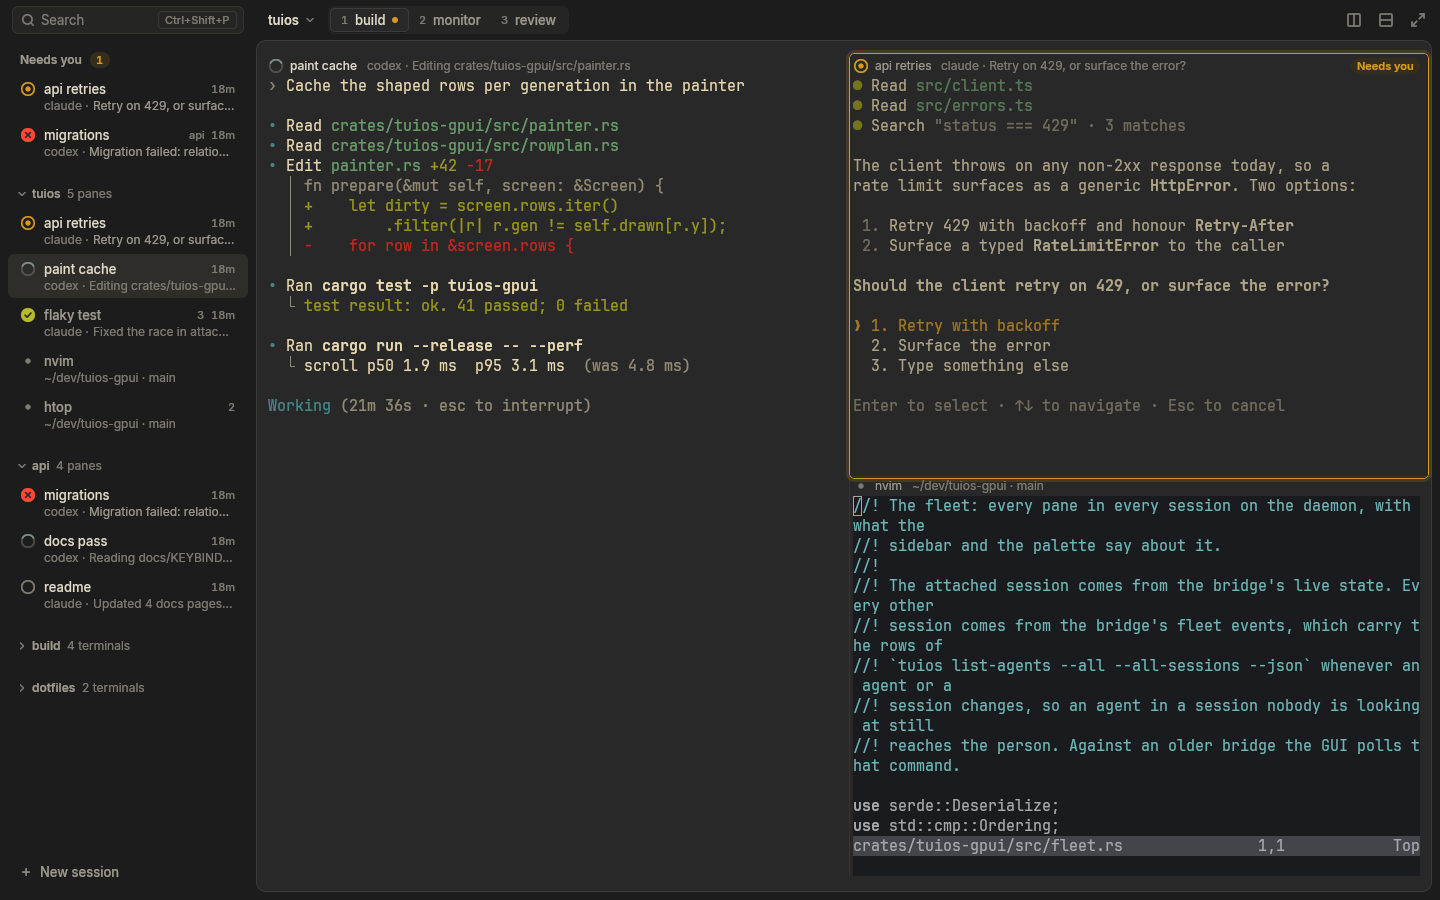
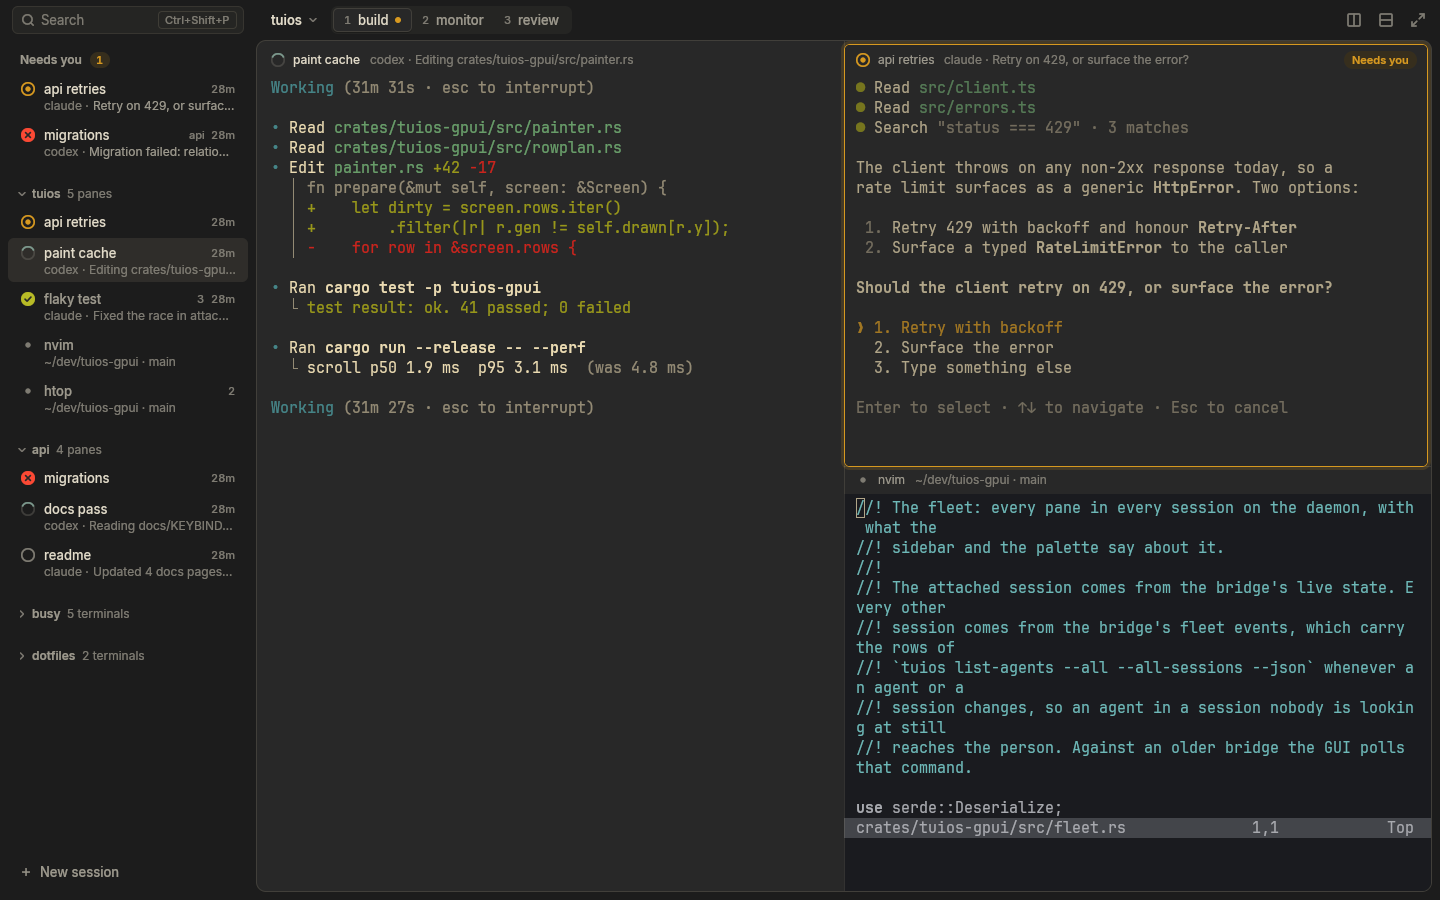
docs: the padded layout, the new tokens, and new screenshots
FINAL.md describes the slots, the 28 px header, the padding colour, the
light tokens and the window buttons, and section 11 records the bridge
insets as done. PERFORMANCE.md has the numbers after the change.

diff --git a/docs/design/FINAL.md b/docs/design/FINAL.md
@@ -40,7 +40,7 @@ one bordered quad per frame.
 8. The speed and memory budget, and 3,000 lines of default scrollback.
 9. Empty states for "connecting" (after 400 ms) and "session ended".
 10. The narrow-window rules, with the rail hidden below 720 px.
-11. Unfocused panes dim 20 % on light themes, 30 % on dark.
+11. Unfocused panes dim 12 % on light themes, 30 % on dark.
 12. The overlay scrollbar.
 
 ## 1. Principles
@@ -115,17 +115,17 @@ Everything else is derived, once per theme change, never per frame.
 | Token | Dark theme | Light theme |
 | --- | --- | --- |
 | `stage` (panes, pane headers) | `bg` | `bg` |
-| `base` (sidebar, title band) | mix(bg, #000, 0.30) | mix(bg, #fff, 0.55) |
-| `field` (search, segmented control) | mix(base, fg, 0.045) | mix(base, #000, 0.035) |
+| `base` (sidebar, title band) | mix(bg, #000, 0.30) | mix(bg, #000, 0.04) |
+| `field` (search, segmented control) | mix(base, fg, 0.045) | mix(base, #fff, 0.5) |
 | `hover` | mix(base, fg, 0.04) | mix(base, #000, 0.03) |
-| `selected` | mix(base, fg, 0.09) | mix(base, #000, 0.08) |
-| `raised` (palette) | mix(bg, fg, 0.045) | mix(bg, #fff, 0.75) |
+| `selected` | mix(base, fg, 0.09) | mix(base, #000, 0.07) |
+| `raised` (palette) | mix(bg, fg, 0.045) | mix(bg, #fff, 0.85) |
 | `raised_sel` (chosen palette row) | mix(raised, fg, 0.075) | mix(raised, #000, 0.06) |
-| `border` (stage edge, chips, buttons) | fg at 10 % | #000 at 12 % |
-| `hairline` (splits, palette dividers) | fg at 7 % | #000 at 9 % |
+| `border` (stage edge, chips, buttons) | fg at 13 % | #000 at 16 % |
+| `hairline` (splits, palette dividers) | fg at 12 % | #000 at 14 % |
 | `scrim` | #000 at 45 % | #000 at 18 % |
-| `dim` (unfocused pane content) | `stage` at 30 % | `stage` at 20 % |
-| `ink` | desaturate(fg, 0.45) | desaturate(fg, 0.12), then mix toward #000 in 2 % steps until 11:1 on `worst` |
+| `dim` (unfocused pane content) | `stage` at 30 % | `stage` at 12 % |
+| `ink` | desaturate(fg, 0.45) | desaturate(fg, 0.12), then mix toward #000 in 2 % steps until 10.5:1 on `worst` |
 | `text` | `ink` | `ink` |
 | `text2` | mix(ink, worst, t), largest t that keeps 4.6:1 on `worst` | same |
 | `text3` | the same, for 3.1:1 | same |
@@ -138,9 +138,14 @@ Everything else is derived, once per theme change, never per frame.
 - `worst` is whichever of `base`, `stage`, `hover`, `selected`, `field` and
   `raised` gives `ink` the lowest contrast. Text passes on all of them.
 - `raised_sel` is left out of `worst`. On the chosen palette row the muted
-  fragment uses `text2`, not `text3` (3.9:1 dark, 5.1:1 light).
+  fragment uses `text2`, not `text3`.
 - Light themes start the state colours from the dark agent hues, so amber
-  stays amber (`#aa7304`), never brown.
+  stays amber (`#976602`), never brown.
+- In both themes the stage is the brightest surface the panes sit on. In a
+  light theme the shell is a step darker than the stage, and the search
+  field and the palette are lighter than both.
+- The light ink stops at 10.5:1, not 11: with the shell darker than the
+  stage, 2 % steps toward black stall just under 11 on `selected`.
 
 ### 3.3 Resolved values
 
@@ -150,23 +155,23 @@ Alpha tokens are shown composited on `stage`.
 | Token | Dark | Light | Contrast on `worst` (dark / light) |
 | --- | --- | --- | --- |
 | `stage` | #1a1b26 | #e1e2e7 | |
-| `base` | #12131b | #f2f2f4 | |
-| `field` | #1a1b25 | #eaeaeb | |
-| `hover` | #191a24 | #ebebed | |
-| `selected` | #22232f | #dfdfe0 | |
-| `raised` | #21232f | #f8f8f9 | |
-| `raised_sel` | #2d303e | #e9e9ea | |
-| `border` | #2b2c3b | #c6c7cb | |
-| `border` on `raised` | #313443 | #dadadb | |
-| `hairline` | #262734 | #cdced2 | |
-| `text` | #c6cbde | #26282e | 9.6 / 11.1 |
-| `text2` | #888b9b | #606166 | 4.6 / 4.6 (5.5 / 5.5 on `base`) |
-| `text3` | #6c6f7e | #7b7c80 | 3.1 / 3.1 |
-| `accent` | #7aa2f7 | #2e7de9 | 6.2 / 3.0 |
-| `need` / fill / ink | #e0af68 / #2f2926 / #e0af68 | #aa7304 / #e8e0d2 / #885b06 | 7.8 / 3.1, ink 4.5 on fill |
-| `done` / fill | #9ece6a / #262d26 | #5f8b24 / #dde4d7 | 8.5 / 3.0 |
-| `err` / fill | #f7768e / #32212b | #d0536d / #eddce1 | 5.9 / 3.1 |
-| `selection` | #354161 | #bacce7 | |
+| `base` | #12131b | #d8d9de | |
+| `field` | #1a1b25 | #ececee | |
+| `hover` | #191a24 | #d2d2d7 | |
+| `selected` | #22232f | #c9cace | |
+| `raised` | #21232f | #fafbfb | |
+| `raised_sel` | #2d303e | #ebecec | |
+| `border` | #303241 | #bdbec2 | |
+| `border` on `raised` | #363949 | #d2d3d3 | |
+| `hairline` | #2e303f | #c2c2c7 | |
+| `text` | #c6cbde | #191b21 | 9.6 / 10.5 |
+| `text2` | #888b9b | #53545a | 4.6 / 4.6 |
+| `text3` | #6c6f7e | #6d6e74 | 3.1 / 3.1 |
+| `accent` | #7aa2f7 | #1a6cd6 | 6.2 / 3.1 |
+| `need` / fill / ink | #e0af68 / #2f2926 / #e0af68 | #976602 / #cfc9bf / #744d01 | 7.8 / 3.0, ink 4.5 on fill |
+| `done` / fill | #9ece6a / #262d26 | #517c0c / #c5ccc1 | 8.5 / 3.0 |
+| `err` / fill | #f7768e / #32212b | #bf435f / #d4c4cc | 5.9 / 3.1 |
+| `selection` | #354161 | #b5c8e3 | |
 | `on_state` | #1a1b26 | #ffffff | |
 
 ### 3.4 Where colour goes
@@ -208,8 +213,8 @@ Alpha tokens are shown composited on `stage`.
   | Sidebar row | 44 tall, 2 px gap (46 pitch), inset 8 |
   | Group header | 28 tall. Section label 24 tall |
   | Stage margin | 8 right and bottom, 0 left and top |
-  | Stage inner padding | at least 12 on every side |
-  | Pane header | one cell row (20 px). 28 px once the bridge has insets (section 11) |
+  | Pane padding | 12 from each slot edge to the text, 32 at the top (section 11) |
+  | Pane header | 28 tall (section 11) |
   | Split hit area | 8 |
   | Palette | 680 wide, query row 52, row 40, section label 28, footer 40 |
   | Keycap chip | 18 tall, 6 px side padding |
@@ -242,14 +247,22 @@ Reference: 1440 x 900 at scale 1, cell 9 x 20.
 - **Stage:** x = sidebar width, y = 40, right margin 8, bottom margin 8,
   radius 10, fill `stage`, 1 px `border` drawn inside. The sidebar and the
   band have no edge lines. The stage edge separates them.
-- **Grid:** `cols = floor((stage_w - 24) / cell_w)`,
-  `rows = floor((stage_h - 24) / cell_h)`. The origin is the stage origin
-  plus `floor(leftover / 2)` on each axis. At the reference size: 128 x 41
-  cells at (268, 56).
+- **Grid:** tuios lays the panes out in cells with a one-cell gap. A pane's
+  **slot** is its cells plus the gap after them: half a gap column on each
+  side and the gap row above. `cols = floor(stage_w / cell_w) - 1` and
+  `rows = floor(stage_h / cell_h) - 1`, so the slots fill the stage, and the
+  leftover is split evenly around them.
 - All padding and leftover is `stage`. A pane whose program set its own
-  background (OSC 11) fills its content rect grown by 4 px into the gaps, and
-  out to the stage edge where it touches it, clipped by the stage radius. Its
-  header row stays `stage`.
+  background (OSC 11) fills its slot below the header, out to the stage
+  edge where it touches it, clipped by the stage radius. Its header stays
+  `stage`.
+- **Padding takes the edge colour,** as Ghostty's
+  `window-padding-color = extend`: each row's first and last cell run their
+  background out to the slot's sides, and the first and last rows run theirs
+  up and down. A side runs on only when at least half the rows have a
+  background on it, so a coloured shell prompt leaves the padding alone. A
+  box-drawing or Powerline cell never runs on. The `dim` quad covers the
+  padding too.
 - The stage, grid origin, hairlines and ring snap to device pixels at every
   scale.
 
@@ -270,9 +283,14 @@ Reference: 1440 x 900 at scale 1, cell 9 x 20.
     0 1 0 shadow at 25 %. An unnamed workspace shows its number only, at
     least 28 wide. A workspace with a pane that needs you shows a 6 px `need`
     dot 6 px after its name.
+  - A session with one unnamed workspace shows no segmented control.
   - Right: split right, split down, zoom. 28 x 28 icon buttons, 16 px
     outline icons with 1.5 px strokes in `text3`, 4 px apart, the last one
     ending at the stage's right edge.
+  - When the app draws its own decorations and the window floats (GNOME,
+    for example), minimize, maximize and close follow, 8 px after zoom:
+    the same icon buttons. Close fills `err` under the pointer, its icon
+    `on_state`. A tiled window, or one the compositor frames, shows none.
 - All band baselines sit at y 25.
 
 ### 5.3 Sidebar (256 px, `base`)
@@ -308,40 +326,41 @@ From the top, after the band:
   folder. The harness goes on line 2, never in the title.
 - Fill: `selected` for the focused pane, `hover` under the pointer.
 - A pane that needs you appears in "Needs you" and in its session, on
-  purpose. Both rows look the same.
+  purpose. In its session it is a 28 px row: the icon and the title, no
+  second line, since "Needs you" shows the message.
 - Drag the stage edge to resize, 220 to 360. A double click on it resets
   256. `Ctrl+Shift+B` hides the sidebar.
 
 ### 5.4 Panes, headers and splits
 
-- **Header** (the cell row tuios reserves above each pane, 20 px):
+- **Header** (the top 28 px of the pane's slot):
   - No fill and no line. It sits on `stage`.
-  - State icon centred at (content.x + 8, row_top + 10).
-  - Title at content.x + 22, baseline row_top + 14: `small-strong` 500
+  - State icon centred at (text.x + 7, slot_top + 14).
+  - Title at text.x + 22, baseline slot_top + 18: `small-strong` 500
     `text` when focused, 400 `text2` when not.
   - Detail 10 px after the title in `small` `text3`: harness and activity
     for an agent, or file, folder and branch for a program.
-  - Right: the "Needs you" pill, 4 px in from content.right + 4.
+  - Right: the "Needs you" pill, 18 tall, radius 9, 8 px side padding,
+    ending 12 px in from the slot's right edge.
   - No age. The sidebar shows it.
   - When space runs out, cut the detail first, then the title, with an
     ellipsis. Hide the detail when less than 40 px remain. The icon and the
     pill are never cut.
-- **Splits:** 1 px `hairline` on the gap centre line, both directions. A
-  vertical split runs from the top of the header row to the bottom of the
-  grid. A horizontal split runs the width of the two panes it divides.
+- **Splits:** 1 px `hairline` on the slot edges, which are the gap centre
+  lines, both directions. Each pane draws the line on its left and the line
+  above it, the full length of its slot.
   During a drag the line is 2 px `accent` at 60 %. 8 px hit area.
 - **Unfocused panes:** the `dim` quad over the content rows only. The header
   keeps full strength, so state marks never fade. Only its title colour
   changes.
-- **Needs-you ring:** 1 px `need`, radius 6, on the gap centre lines around
-  the pane, top 3 px above the header row. Where the pane touches the stage
-  edge, the ring sits 4 px inside the edge. Outside it, a 3 px stroke of
+- **Needs-you ring:** 1 px `need`, radius 6, on the slot edges. Where the
+  pane touches the stage edge, the ring sits 4 px inside the edge. Outside it, a 3 px stroke of
   `need` at 16 % gives the glow. The ring replaces the hairline on its sides.
   It is drawn after `dim`. It is the only coloured frame in the app.
 - **Zoom:** the zoomed pane fills the grid. The zoom button shows its icon
   in `text`.
-- **Inner padding:** with tuios's one-cell gap, text sits 4 px from the
-  hairline. That is the limit until the bridge has insets (section 11).
+- **Inner padding:** text sits 12 px from a split and from the ring, and
+  4 px below the header (section 11).
 
 ### 5.5 Command palette
 
@@ -365,8 +384,9 @@ From the top, after the band:
   folder, never both. The key chip right aligned 20 px in.
 - **Chosen row:** `raised_sel` fill. No accent bar. Hover moves the choice.
 - **Names:** a plain terminal is named after its running program or title,
-  then its folder and session. Three rows that read "env-dark/home" must not
-  happen.
+  then its folder's own name ("tuios-gpui", or "~" at home). A title is
+  never two path parts. Two rows with one title show the session as their
+  fragment ("~ · api"), and the workspace too when that is what differs.
 - **Footer, 40,** a `hairline` above: "5 results" in `small` `text3` at
   x 20. Right: "Open" (`small` 500 `text`) with an `Enter` chip, then "Close"
   (`small` 500 `text2`) with an `Esc` chip.
@@ -400,10 +420,12 @@ icon in `text3` above the title is allowed. 12 px between title and line,
 
 ### 5.8 Light theme
 
-Same layout and sizes. The shell is lighter than the stage, so the panes
-read as the inset work area. Ink is a neutral near-black, never the theme's
-blue. State colours follow 3.2. `dim` is 20 %. The scrim is 18 % and the
-palette shadow is lighter.
+Same layout and sizes. The shell is a step darker than the stage, so the
+stage stays the brightest surface, as the editor is in Zed's light themes.
+The search field and the palette are lighter than both. Ink is a neutral
+near-black, never the theme's blue. State colours follow 3.2. `dim` is
+12 %, so text in an unfocused pane stays readable. The scrim is 18 % and
+the palette shadow is lighter.
 
 ### 5.9 Narrow windows
 
@@ -428,7 +450,7 @@ pixels.
 | --- | --- | --- | --- |
 | 1 | Needs you | ring r 6.25 with a filled centre r 2.5 | `need` |
 | 2 | Error | filled disc r 7, an X of 4.8 px | `err`, mark `on_state` |
-| 3 | Working | ring r 6.25 in `text3` at 50 %, a 120° arc | arc `accent` |
+| 3 | Working | ring r 6.25 in `text3` at 35 %, a 120° arc | arc `accent` |
 | 4 | Done, not seen | filled disc r 7, a check | `done`, mark `on_state` |
 | 5 | Idle agent | ring r 6.25 | `text3` |
 | 6 | Plain terminal | dot r 2.5 | `text3` |
@@ -486,7 +508,7 @@ pixels.
 | Palette and scrim close | 80 ms | opacity only | `exit` |
 | Needs you arrives | 400 ms | pill and ring opacity 0 to 1, glow 0 to 40 % to 16 %. No size change | `decelerate` |
 | Needs you clears | 160 ms | opacity 1 to 0 | `exit` |
-| Working icon | 2.4 s loop | the arc's opacity 100 % to 45 % and back, sine, drawn at 10 fps | |
+| Working icon | 2.4 s loop | the arc's opacity 100 % to 70 % and back, sine, drawn at 10 fps. It never dims far enough to read as the idle ring | |
 | Resize badge | in at once, out 150 ms after 750 ms without change | opacity | `exit` |
 | Cursor blink | 600 / 600 ms | step | |
 | Hover, press, focus, workspace switch, pane focus, row reorder, sidebar hide | instant | | |
@@ -571,8 +593,13 @@ What the design needs from the code (no visible features):
   segment.
 - **Memory.** Plain JetBrains Mono plus one lazy symbols font. A 1 byte per
   pixel grayscale atlas. Scrollback defaults to 3,000 lines (`scrollback`
-  setting). Hidden panes keep their history but drop shaped-row caches.
-  The GPU driver choice from the perf audit is separate work.
+  setting). Hidden panes keep their history but drop shaped-row caches. So
+  does a pane without focus that has not changed for 30 s.
+- **GPU.** `gpu = "auto"` (the default) loads only the integrated GPU's
+  Vulkan driver when that GPU drives every connected display and a second
+  GPU is present. A window drawn on one GPU and shown by a compositor on
+  another can come up black. `"integrated"` forces it, `"any"` loads every
+  driver.
 
 ### Config keys
 
@@ -586,21 +613,23 @@ What the design needs from the code (no visible features):
 | `text_contrast` | 2.0 |
 | `scrollback` | 3000 |
 | `reduce_motion` | false |
+| `gpu` | "auto" |
 
-## 11. Bridge insets (open, not blocking)
+## 11. Bridge insets
 
-With tuios's one-cell gap, text sits 4 px from a split and the header is one
-cell tall. The target layout needs per-pane pixel insets in
-`tuios gui-bridge` (Go, branch `exp/gpui-bridge`): the GUI sends the space
-each pane loses to chrome (top 32, sides 12, bottom 12) and the bridge sizes
-each pane to the inner rect. Then:
+`tuios gui-bridge` (Go, branch `exp/gpui-bridge`) takes per-pane pixel
+insets: `--insets` at start and `insets` on every `resize` command, in
+device pixels, top, left, right, bottom. The GUI sends 32, 12, 12, 12. Each
+inset is measured from the pane's slot (section 5.1). The bridge sizes each
+pane's PTY to the whole cells left inside:
+`cols = floor(((w + 1) × cell_w - left - right) / cell_w)`, and the same
+for rows. The GUI lays out the text with the same formula
+(`Window::inset_cells`, `terminal.InsetCells` in tuios).
 
 - Header 28 tall: icon centre y + 14, title baseline y + 18, pill 18 tall,
   radius 9, 8 px side padding.
 - 12 px pane padding, 4 px between header and grid.
-- The ring sits on the gap centre line as before.
-
-Everything else in this file ships without it.
+- The ring sits on the slot edges.
 
 ## 12. Do not
 
@@ -633,7 +662,8 @@ Everything else in this file ships without it.
 - `final/palette-dark.png`: the palette with the query "re".
 - `final/main-light.png`: tokyonight_day.
 
-They use the bridge-free layout (one-cell headers). Rebuild:
+They use the older layout with one-cell headers, from before the bridge had
+insets. The screenshots in `docs/screenshots` show the current one. Rebuild:
 
 ```sh
 # fonts.conf adds crates/tuios-gpui/assets/fonts to the system fonts

diff --git a/README.md b/README.md
@@ -30,9 +30,11 @@ More screenshots: [the command palette](docs/screenshots/dark-palette.png),
   agent or a session changes, so the sidebar never polls. In a narrow window
   the sidebar becomes a rail of state icons.
 - Draws the panes of the active workspace where tuios's own layout puts them.
-  Each pane has a header in the row tuios leaves between panes: its state, its
-  name (the agent, then the program, then the folder), and its folder and git
-  branch. A pane that needs you gets the one coloured frame in the app.
+  Each pane has a 28 px header: its state, its name (the agent, then the
+  program, then the folder), and its folder and git branch. The text sits
+  12 px from every split, and the padding takes the colour of the cells next
+  to it, so nvim fills its pane. A pane that needs you gets the one coloured
+  frame in the app.
 - Feeds each pane's byte stream into its own libghostty-vt instance and paints
   the cells on the GPU: wide characters, grapheme clusters, colour emoji,
   bold, italic, five underline styles, strikethrough, overline, truecolour,
@@ -82,7 +84,9 @@ The bridge is on the local tuios branch `exp/gpui-bridge` (worktree
   when they change;
 - `internal/app/stream_tap.go`: a hook that sees each pane's stream in the
   order the model applies it;
-- `cmd/tuios/gui_bridge_command.go`: the `tuios gui-bridge` command.
+- `cmd/tuios/gui_bridge_command.go`: the `tuios gui-bridge` command;
+- `internal/terminal/window_geometry.go`: the pixel insets, so each pane's
+  PTY is the size of the text area inside the GUI's padding.
 
 ## Build
 
@@ -135,7 +139,8 @@ text_antialias = "grayscale"     # or "subpixel"
 text_contrast = 2.0              # 0 to 4: stem weight of grayscale text
 scrollback = 3000                # lines of history per pane
 reduce_motion = false            # no animations
-gpu = "auto"                     # or "integrated": less memory on a laptop
+gpu = "auto"                     # the integrated GPU when it drives the
+                                 # displays; "integrated" or "any"
 theme = "tokyonight"             # instead of tuios's theme
 ```
 

diff --git a/docs/PERFORMANCE.md b/docs/PERFORMANCE.md
@@ -77,6 +77,22 @@ Against the budget in FINAL.md section 10:
 | Paint p95 under 2 ms with 4 busy panes | Met: 0.94 ms. |
 | Anonymous memory under 40 MB with 4 panes | Met with `gpu = "integrated"` (37.0 MB). With the NVIDIA driver it is 42.4 MB, about 5 MB of which the driver allocates. |
 
+After the padded layout (section 11 of FINAL.md: each pane's body is one
+view with its padding), `perf/measure-after-insets.json`, where the
+integrated GPU run is marked as such:
+
+| Case | App CPU | Frames/s | Paint p50 / p95 | RSS | Anonymous |
+| --- | --- | --- | --- | --- | --- |
+| busy4 | 9.9 % | 57 | 0.59 / 0.82 ms | 180 MB | 42.2 MB |
+| busy1 | 6.3 % | 43 | 0.49 / 0.80 ms | 175 MB | 38.0 MB |
+| busy4, `gpu = "integrated"` | 10.3 % | 55 | 0.64 / 0.87 ms | 144 MB | 36.6 MB |
+
+`gpu = "auto"` now picks the integrated GPU by itself, but only when that
+GPU drives every connected display. On this machine both displays are on
+the NVIDIA card, and a window drawn on the Intel GPU comes up black in a
+compositor that runs on NVIDIA, so "auto" keeps every driver here and
+anonymous memory stays 2 MB over the budget.
+
 ## The painter, before and after
 
 `--perf`, milliseconds, p50 / p95. Interval is capped at 16.7 ms by the
